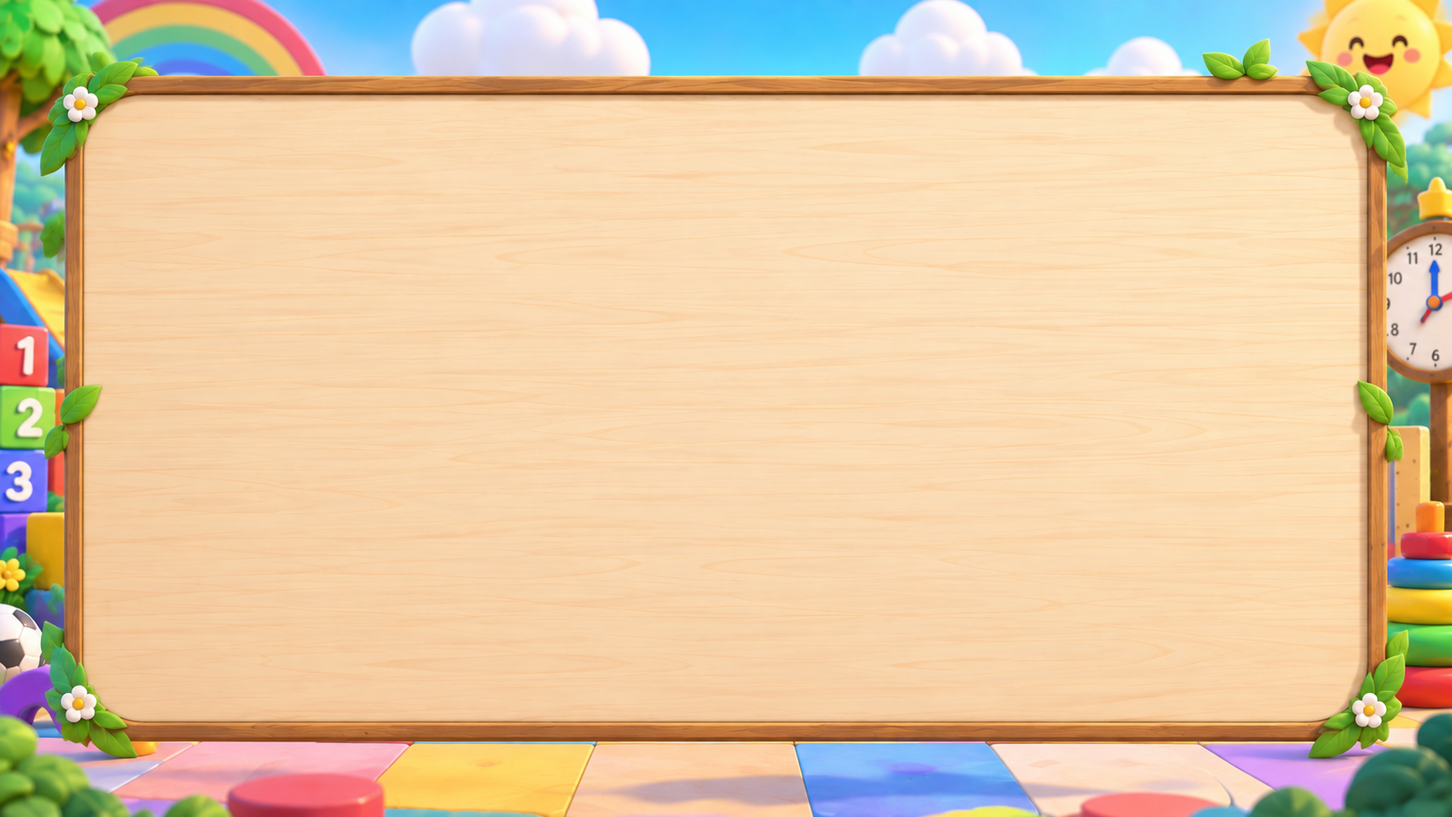
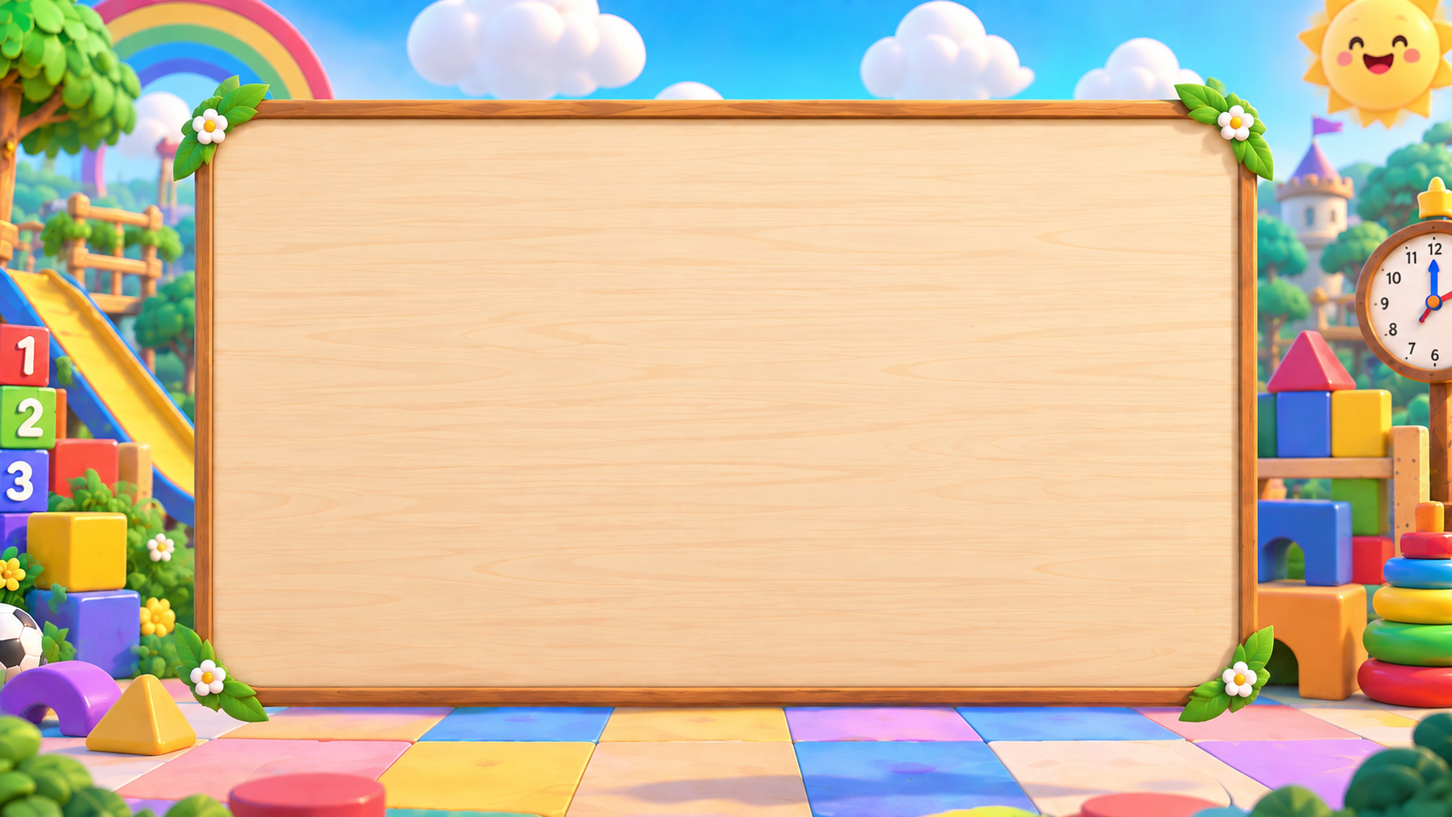
Polish Grade 1 math adventure home

diff --git a/kelas-1-semester-1/matematika/style.css b/kelas-1-semester-1/matematika/style.css
@@ -1,20 +1,39 @@
+@import url('https://fonts.googleapis.com/css2?family=Baloo+2:wght@500;600;700&family=Nunito:wght@500;700;800&display=swap');
+
+/* Activity card reference treatment */
+.grade1-math-activity-card { max-width: 720px !important; padding: 20px 26px 28px !important; border: 3px solid #eadfce !important; border-radius: 28px !important; background: #fffdf9 !important; box-shadow: 0 14px 0 #d6c2a8, 0 20px 36px #5d47352b !important; }
+.grade1-math-activity-card .grade1-math-mascot { position: relative; z-index: 1; justify-content: center; margin: -8px auto 6px !important; }.grade1-math-activity-card .grade1-math-bunny { width: 76px; height: 76px; font-size: 3rem; }.grade1-math-activity-card .grade1-math-speech { padding: 12px 20px; border: 3px solid #eadfce; border-radius: 20px; color: #243447; background: #fffdf9; font-size: 1rem; }
+.grade1-math-activity-card .activity-label { margin: 2px 0 10px; color: var(--coral); font-size: .78rem; font-weight: 900; text-align: center; }.activity-visual { padding: 10px 16px; border: 2px dashed #f0d49e; border-radius: 18px; background: #fff8e9; }.activity-visual .math-objects, .activity-visual .shape-row { margin: 0; min-height: 100px; border-radius: 12px; background: transparent; }.activity-visual .math-objects { font-size: clamp(2rem, 5vw, 3.2rem); }.activity-visual .shape-row { font-size: 4rem; }
+.grade1-math-activity-card .activity-prompt { margin: 14px 0 16px; padding: 9px 14px; border-radius: 16px; color: #243447; background: #edf6e1; font-family: 'Nunito', sans-serif; font-size: clamp(1.8rem, 4vw, 2.5rem) !important; line-height: 1.1; text-align: center; }.grade1-math-activity-card .activity-answers { gap: 12px; }.grade1-math-activity-card .answer-button { min-height: 62px; border: 2px solid #eadfce; border-radius: 16px; color: #243447; background: #f7f3ed; box-shadow: 0 4px 0 #ddd0c0; font-size: 1.25rem; }.grade1-math-activity-card .answer-button:hover { transform: translateY(-2px); background: #fff0df; box-shadow: 0 6px 0 #ddd0c0; }.grade1-math-activity-card .answer-button:active { transform: translateY(2px); box-shadow: 0 2px 0 #ddd0c0; }
+.grade1-math-activity-card .activity-listen { margin-top: 4px; padding: 10px 18px; color: #243447; background: transparent; font-size: .95rem; }.grade1-math-activity-card .activity-listen:hover { color: var(--coral); }.grade1-math-activity-card .level-progress-dots { margin-top: 12px; }
+@media (max-width: 680px) { .grade1-math-activity-card { padding: 16px 14px 24px !important; }.grade1-math-activity-card .grade1-math-bunny { width: 60px; height: 60px; font-size: 2.4rem; }.grade1-math-activity-card .grade1-math-speech { padding: 9px 13px; font-size: .88rem; }.activity-visual .math-objects, .activity-visual .shape-row { min-height: 76px; }.grade1-math-activity-card .activity-prompt { font-size: clamp(1.45rem, 6vw, 2rem) !important; }.grade1-math-activity-card .answer-button { min-height: 56px; } }
+/* Mission card design only */
+.grade1-math-subject { display: grid !important; grid-template-columns: 58px minmax(0, 1fr) auto !important; align-items: center !important; min-height: 156px !important; padding: 22px 24px !important; border: 3px solid #b9dfc1 !important; border-radius: 24px !important; background: #f5fff4 !important; box-shadow: 0 6px 0 #a7cdb0, 0 12px 22px #5d47351a !important; cursor: default !important; text-decoration: none !important; transition: transform .16s ease, box-shadow .16s ease !important; }
+.grade1-math-subject:hover { transform: translateY(-3px) !important; box-shadow: 0 9px 0 #a7cdb0, 0 16px 24px #5d47351a !important; }.grade1-math-subject:active { transform: translateY(2px) !important; box-shadow: 0 3px 0 #a7cdb0 !important; }
+.grade1-math-subject .subject-number { width: 52px !important; height: 52px !important; border-radius: 16px !important; color: white !important; background: var(--coral) !important; font-size: 1.35rem !important; }
+.grade1-math-subject .mission-copy { display: block !important; min-width: 0 !important; padding-right: 18px !important; }.grade1-math-subject .mission-copy b { display: block !important; color: var(--ink) !important; font: 800 1.18rem/1.2 'Nunito', sans-serif !important; }.grade1-math-subject .mission-copy small { display: block !important; margin-top: 7px !important; color: #4f463f !important; font-size: .84rem !important; line-height: 1.35 !important; }
+.mission-mini-visual { display: flex; align-items: center; gap: 7px; min-height: 28px; margin: 9px 0 3px; color: #4c8f69; font-size: 1.18rem; font-weight: 800; letter-spacing: .04em; }.mission-mini-visual b { color: var(--coral); font-size: .95rem; }.mission-number-run span { color: var(--sky); font-size: .92rem; }.mission-number-run span:nth-child(2n) { color: var(--coral); }
+.grade1-math-subject .mission-reward { position: static !important; display: block !important; margin-top: 8px !important; color: #c39120 !important; font-size: .98rem !important; }.grade1-math-subject .subject-play { display: inline-flex !important; align-items: center !important; justify-content: center !important; min-width: 108px !important; min-height: 48px !important; padding: 10px 12px !important; border-radius: 14px !important; color: white !important; background: var(--coral) !important; box-shadow: 0 4px 0 #c95b4a !important; font-size: .72rem !important; font-weight: 900 !important; text-align: center !important; text-decoration: none !important; }.grade1-math-subject .subject-play:hover { transform: translateY(2px) !important; box-shadow: 0 2px 0 #c95b4a !important; }.grade1-math-subject .subject-play:focus-visible { outline: 4px solid #f6bd45; outline-offset: 3px; }
+.grade1-math-subject.is-done { border-color: #8ac79a !important; background: #f1fff0 !important; }.grade1-math-subject.is-done .subject-number { background: var(--leaf) !important; }
+@media (max-width: 680px) { .grade1-math-subject { grid-template-columns: 48px minmax(0, 1fr) !important; min-height: 170px !important; padding: 18px !important; }.grade1-math-subject .subject-number { width: 46px !important; height: 46px !important; }.grade1-math-subject .subject-play { grid-column: 2; justify-self: start; min-height: 46px !important; }.grade1-math-subject .mission-copy { padding-right: 0 !important; }.mission-mini-visual { font-size: 1rem; } }
 /* Chapter pages use the title board as the top identity */
 body.grade1-math:has(#chapter-app) .grade1-math-header { display: none !important; }
 body.grade1-math:has(#chapter-app) .chapter-title-board { margin-top: -22px !important; }
 body.grade1-math:has(#chapter-app) #chapter-app { position: relative; top: -120px; }
-body.grade1-math:has(.grade1-math-activity-card) #chapter-app { top: 0 !important; }
-.chapter-progress-floating { position: fixed; top: 50px; right: 40px; z-index: 20; display: grid; gap: 4px; min-width: 170px; padding: 13px 15px; border: 2px solid #f0ce76; border-radius: 16px; color: #7f5d18; background: #fff5cf; box-shadow: 0 4px 0 #e0b85e; }
-.chapter-progress-floating span { color: #9a741e; font-size: .68rem; font-weight: 800; letter-spacing: .12em; }.chapter-progress-floating strong { display: flex; gap: 3px; font-size: 1.2rem; }.chapter-progress-floating small { color: #766b61; font-size: .78rem; font-weight: 800; }
-@media (max-width: 680px) { .chapter-progress-floating { top: 50px; right: 12px; min-width: 145px; padding: 10px 12px; }.chapter-progress-floating strong { font-size: 1rem; }.chapter-progress-floating small { font-size: .7rem; } }
+body.grade1-math:has(.grade1-math-activity-card) #chapter-app { top: 150px !important; }
+.chapter-progress-floating { position: fixed; top: 50px; right: 40px; z-index: 20; display: flex; align-items: center; justify-content: center; min-width: 330px; min-height: 123px; padding: 24px 40px; color: #3d2a20; text-align: center; background: url('images/text-board.png') center / 100% 100% no-repeat; }
+.chapter-progress-floating strong { font-size: 1.25rem; font-weight: 900; line-height: 1; text-shadow: 0 1px 0 #fff2c7; }
+.chapter-progress-floating span { color: #5b321d; font-size: .72rem; font-weight: 900; letter-spacing: .12em; text-shadow: 0 1px 0 #ffe9b5; }.chapter-progress-floating strong { display: flex; gap: 3px; color: #6f3f19; font-size: 1.35rem; line-height: 1; text-shadow: 0 1px 0 #fff2c7; }.chapter-progress-floating small { color: #3d2a20; font-size: .82rem; font-weight: 900; text-shadow: 0 1px 0 #fff2c7; }
+@media (max-width: 680px) { .chapter-progress-floating { top: 50px; right: 12px; min-width: min(270px, calc(100vw - 24px)); min-height: 102px; padding: 24px 30px; }.chapter-progress-floating strong { font-size: 1rem; } }
 .chapter-title-board .grade1-math-kicker { color: #8f4d24; font-size: .95rem; font-weight: 900; letter-spacing: .18em; }
-.chapter-title-board h1 { margin-top: 16px !important; font-size: clamp(1.55rem, 2.8vw, 2.25rem) !important; }
+.chapter-title-board h1 { margin-top: 16px !important; font-size: clamp(1.16rem, 2.1vw, 1.69rem) !important; }
 .chapter-title-board p { margin-top: 64px !important; color: #3e3028; font-weight: 800; text-shadow: 0 1px 0 #fff4d8; }
 .chapter-title-board > .grade1-math-kicker, .chapter-title-board > h1, .chapter-title-board > p { position: relative; top: 35px; }
 /* Chapter title sits outside the content board */
 .chapter-title-board { max-width: 760px; min-height: 178px; margin: 50px auto 18px; padding: 42px clamp(42px, 8vw, 100px) 32px; text-align: center; background: url('images/papan judul.png') center / 100% 100% no-repeat; }
 .chapter-title-board h1 { margin: 4px 0 8px; font-family: 'Nunito', sans-serif; font-size: clamp(1.8rem, 3.4vw, 2.8rem); line-height: 1.05; letter-spacing: 0; }
 .chapter-title-board p { max-width: 620px; margin: 0 auto; color: #766b61; font-size: .98rem; line-height: 1.4; }
-@media (max-width: 680px) { .chapter-title-board { min-height: 220px; margin: 50px 0 14px; padding: 32px 42px 24px; }.chapter-title-board .grade1-math-kicker { font-size: .8rem; }.chapter-title-board h1 { margin-top: 12px !important; font-size: clamp(1.35rem, 6vw, 2rem) !important; }.chapter-title-board p { margin-top: 52px !important; font-size: .88rem; } }
+@media (max-width: 680px) { .chapter-title-board { min-height: 220px; margin: 50px 0 14px; padding: 32px 42px 24px; }.chapter-title-board .grade1-math-kicker { font-size: .8rem; }.chapter-title-board h1 { margin-top: 12px !important; font-size: clamp(1.01rem, 4.5vw, 1.5rem) !important; }.chapter-title-board p { margin-top: 52px !important; font-size: .88rem; } }
 /* Centered chapter title refinement */
 .level-heading { display: block !important; padding: 80px 0 18px !important; text-align: center !important; }
 .level-heading-copy { max-width: 760px !important; margin: 0 auto !important; }
@@ -47,7 +66,7 @@ body.grade1-math:has(.grade1-math-activity-card) #chapter-app { top: 0 !importan
 .grade1-math-hero p { max-width: 480px; margin: 0 0 22px; color: #4f463f; font-size: 1.08rem; font-weight: 800; }
 .primary-cta { display: inline-flex; align-items: center; min-height: 56px; padding: 0 24px; border: 3px solid #d96a58; border-radius: 18px; color: white; background: var(--coral); box-shadow: 0 5px 0 #c95b4a; font-size: 1.05rem; font-weight: 800; text-decoration: none; transition: transform .16s ease, box-shadow .16s ease; }
 .primary-cta:hover, .primary-cta:focus-visible { transform: translateY(2px); box-shadow: 0 3px 0 #c95b4a; }
-.adventure-board { max-width: 100%; margin: 8px 0 28px; padding: 22px clamp(16px, 4vw, 34px) 26px; border: 4px solid #b77b4d; border-radius: 26px; background: #f7d69f; box-shadow: 0 8px 0 #8e5c3d, 0 18px 32px #694a3426; }
+.adventure-board { max-width: 100%; aspect-ratio: 2172 / 620; margin: 8px 0 28px; padding: 16px clamp(16px, 4vw, 34px) 18px; border: 0; border-radius: 26px; background: url('images/board-peta.png') center / 100% 100% no-repeat; box-shadow: none; }
 .board-heading { display: flex; justify-content: space-between; gap: 12px; margin-bottom: 20px; color: #7b4a2f; font-size: .78rem; font-weight: 800; letter-spacing: .12em; }
 .board-heading strong { color: #6a573f; letter-spacing: 0; }
 .adventure-path { display: flex; align-items: center; justify-content: space-between; gap: 8px; }
@@ -58,10 +77,40 @@ body.grade1-math:has(.grade1-math-activity-card) #chapter-app { top: 0 !importan
 .grade1-math-chapters { gap: 14px; }.grade1-math-chapter { min-height: 132px; background: #ffffffe8; }.grade1-math-chapter strong { font-family: 'Nunito', sans-serif; font-size: 1.18rem; }.grade1-math-chapter small { display: block; margin-top: 8px; font-size: .86rem; font-weight: 800; }.grade1-math-chapter .chapter-arrow { min-width: 78px; padding: 10px 8px; border-radius: 12px; color: white; background: var(--coral); box-shadow: 0 3px 0 #c95b4a; font-size: 0; text-align: center; }.grade1-math-chapter .chapter-arrow::after { content: 'MAIN ▶'; font-size: .72rem; letter-spacing: .04em; }.grade1-math-chapter:hover .chapter-arrow { transform: translateY(2px); box-shadow: 0 1px 0 #c95b4a; }.grade1-math-chapter:focus-visible, .grade1-math-subject:focus-visible, .grade1-math-back:focus-visible, .next-button:focus-visible, .listen-button:focus-visible, .answer-button:focus-visible { outline: 4px solid #f6bd45; outline-offset: 3px; }
 .level-heading { display: grid; grid-template-columns: 1fr auto; align-items: end; gap: 18px; padding: 30px 0 22px; }.level-heading .grade1-math-back { grid-column: 1 / -1; margin-bottom: 0; }.level-heading h1 { margin-top: 5px; }.level-heading p { max-width: 600px; margin: 0; color: #766b61; font-size: 1.05rem; }.level-progress, .activity-stars { padding: 10px 14px; border-radius: 14px; color: #7f5d18; background: #fff2c9; font-weight: 800; white-space: nowrap; }.grade1-math-subject.is-done { border-color: #91c99a; background: #f1fff0; }.grade1-math-subject.is-done .subject-play { color: var(--leaf); }
 .grade1-math-activity-head { padding-top: 22px; }.grade1-math-activity-head .activity-stars { margin-left: auto; padding: 7px 10px; font-size: .82rem; letter-spacing: 0; }.grade1-math-activity-card { border-width: 3px; }.level-progress-dots { display: flex; justify-content: center; gap: 8px; margin: 4px 0 2px; }.progress-dot { width: 12px; height: 12px; border: 2px solid #d7c9b6; border-radius: 50%; background: transparent; }.progress-dot.is-active { border-color: var(--coral); background: var(--coral); }
-@media (max-width: 760px) { .grade1-math-hero { padding-top: 30px; }.adventure-path { overflow-x: auto; justify-content: flex-start; padding: 4px 2px 10px; }.adventure-node { flex: 0 0 112px; }.path-link { flex: 0 0 auto; }.level-heading { align-items: start; }.level-progress { grid-column: 2; grid-row: 2; } }
+@media (max-width: 760px) { .grade1-math-hero { padding-top: 30px; }.adventure-board { aspect-ratio: auto; background-size: contain; }.adventure-path { overflow-x: auto; justify-content: flex-start; padding: 4px 2px 10px; }.adventure-node { flex: 0 0 112px; }.path-link { flex: 0 0 auto; }.level-heading { align-items: start; }.level-progress { grid-column: 2; grid-row: 2; } }
 @media (max-width: 680px) { .grade1-math-hero { padding: 28px 12px 24px; background: linear-gradient(90deg, #fffaf2e8, #fffaf298 86%, transparent); }.grade1-math-hero h1 { font-size: clamp(2.45rem, 12vw, 4rem); }.board-heading { align-items: flex-start; flex-direction: column; }.grade1-math-activity-head .activity-stars { margin-left: 0; }.level-heading { grid-template-columns: 1fr; }.level-progress { grid-column: auto; grid-row: auto; justify-self: start; }.grade1-math-chapter { min-height: 116px; padding: 14px; }.grade1-math-chapter .chapter-arrow { min-width: 70px; }.answer-grid { grid-template-columns: repeat(3, minmax(0, 1fr)); }.grade1-math-footer { margin-top: 32px; } }
 @media (orientation: landscape) and (max-height: 560px) { .grade1-math-shell { padding-top: 10px; }.grade1-math-header { padding-bottom: 8px; }.grade1-math-hero { padding: 20px 0 16px; }.grade1-math-hero h1 { font-size: clamp(2.4rem, 8vh, 4rem); }.adventure-board { margin-bottom: 16px; padding: 14px 20px 18px; }.grade1-math-activity-card { padding-top: 12px; padding-bottom: 18px; }.grade1-math-activity-card .grade1-math-mascot { margin-bottom: 4px; }.grade1-math-activity-card .grade1-math-bunny { width: 48px; height: 48px; font-size: 1.9rem; }.math-objects { min-height: 58px; margin: 8px 0; }.grade1-math-activity-card h1 { margin: 6px 0 10px; } }
-@import url('https://fonts.googleapis.com/css2?family=Baloo+2:wght@500;600;700&family=Nunito:wght@500;700;800&display=swap');
+/* Home refinement: keep the map playful while making the next action obvious. */
+body.grade1-math:has(#math-map) .grade1-math-hero { max-width: 820px; padding: 24px 22px 20px; }
+body.grade1-math:has(#math-map) .grade1-math-header { gap: 8px; padding-bottom: 10px; }
+body.grade1-math:has(#math-map) .grade1-math-brand,
+body.grade1-math:has(#math-map) .grade1-math-semester { display: inline-flex; align-items: center; min-height: 36px; border-radius: 11px; padding: 6px 10px; }
+body.grade1-math:has(#math-map) .grade1-math-brand { color: #fff; background: #2f7188; letter-spacing: .02em; }
+body.grade1-math:has(#math-map) .grade1-math-semester { margin-left: -2px; color: #55412b; background: #ffe39a; font-size: .7rem; letter-spacing: .06em; }
+body.grade1-math:has(#math-map) .grade1-math-semester::before { content: '|'; margin-right: 8px; color: #d96a58; font-size: .95rem; font-weight: 900; }
+body.grade1-math:has(#math-map) .grade1-math-hero h1 { margin: 5px 0 8px; font-size: clamp(1.7rem, 3.6vw, 3rem); white-space: nowrap; }
+body.grade1-math:has(#math-map) .grade1-math-hero .grade1-math-kicker { display: none; }
+body.grade1-math:has(#math-map) .grade1-math-hero h1 br { display: none; }
+body.grade1-math:has(#math-map) .grade1-math-hero p { margin-bottom: 16px; }
+body.grade1-math:has(#math-map) .primary-cta { min-height: 52px; padding-inline: 22px; box-shadow: 0 4px 0 #c95b4a; }
+body.grade1-math:has(#math-map) .grade1-math-shell { overflow: visible !important; }
+body.grade1-math:has(#math-map) .adventure-board { width: calc(100% + clamp(80px, 12vw, 220px)); max-width: none; margin: 4px 0 18px calc(clamp(80px, 12vw, 220px) / -2); padding-top: 18px; background-size: 100% 100%; }
+body.grade1-math:has(#math-map) .adventure-board .adventure-path { padding-inline: clamp(42px, 6vw, 88px); }
+body.grade1-math:has(#math-map) .adventure-board .adventure-node,
+body.grade1-math:has(#math-map) .adventure-board .path-link { top: 80px; position: relative; }
+body.grade1-math:has(#math-map) .adventure-node.is-current { border-width: 4px; box-shadow: 0 5px 0 #d1a96e, 0 0 0 6px #ff806d38, 0 10px 20px #5d47353b; animation: home-current-pulse 2.2s ease-in-out infinite; }
+body.grade1-math:has(#math-map) .grade1-math-chapter.is-current { border-color: var(--coral) !important; background: #fff5e9 !important; box-shadow: 0 8px 0 #d96a58, 0 0 0 5px #ff806d2e, 0 14px 26px #5d47352b !important; transform: translateY(-3px); }
+body.grade1-math:has(#math-map) .grade1-math-chapter.is-current .chapter-icon { box-shadow: 0 0 0 4px #ff806d38; }
+body.grade1-math:has(#math-map) .level-status { display: block; margin: 4px 0 1px; color: #b75a42; font-size: .68rem; font-style: normal; font-weight: 900; letter-spacing: .05em; }
+body.grade1-math:has(#math-map) .grade1-math-chapter.is-done .level-status { color: #4c8f69; }
+body.grade1-math:has(#math-map) .grade1-math-chapter.is-locked .level-status { color: #756b62; }
+.grade1-math-guide { display: flex; align-items: center; gap: 12px; max-width: 680px; margin: 0 auto 18px; padding: 8px 14px; }
+.grade1-math-guide .grade1-math-bunny { flex: 0 0 auto; width: 54px; height: 54px; border-radius: 18px; font-size: 2.1rem; }
+.grade1-math-guide .grade1-math-speech { padding: 10px 15px; border-width: 2px; font-size: .92rem; }
+@keyframes home-current-pulse { 0%, 100% { box-shadow: 0 5px 0 #d1a96e, 0 0 0 5px #ff806d30, 0 8px 16px #5d473524; } 50% { box-shadow: 0 5px 0 #d1a96e, 0 0 0 9px #ff806d12, 0 12px 22px #5d473536; } }
+@media (max-width: 680px) { body.grade1-math:has(#math-map) .grade1-math-hero { padding: 20px 12px 18px; } body.grade1-math:has(#math-map) .grade1-math-header { gap: 4px; } body.grade1-math:has(#math-map) .grade1-math-semester { display: inline-flex; flex: 1; min-width: 0; padding-inline: 7px; font-size: .57rem; letter-spacing: .02em; white-space: nowrap; } body.grade1-math:has(#math-map) .grade1-math-semester::before { margin-right: 5px; } body.grade1-math:has(#math-map) .grade1-math-score { min-width: 58px; padding-inline: 7px; } body.grade1-math:has(#math-map) .grade1-math-hero h1 { font-size: clamp(1.45rem, 8vw, 2.35rem); } body.grade1-math:has(#math-map) .adventure-board { width: 100%; max-width: 100%; margin-left: 0; background-size: contain; } .grade1-math-guide { margin-bottom: 12px; padding-inline: 2px; } .grade1-math-guide .grade1-math-speech { flex: 1; } }
+@media (orientation: landscape) and (max-height: 560px) { body.grade1-math:has(#math-map) .grade1-math-hero { padding-block: 14px; } body.grade1-math:has(#math-map) .grade1-math-hero h1 { font-size: clamp(2rem, 7vh, 3.3rem); } }
+@media (max-width: 680px) { body.grade1-math:has(#math-map) .adventure-board .adventure-path { padding-inline: 8px; } }
 
 :root { --ink: #243447; --paper: #fffaf2; --coral: #ff806d; --sun: #f6bd45; --leaf: #69b889; --sky: #5db6d5; --violet: #9a86d8; --line: #eadfce; }
 * { box-sizing: border-box; }

diff --git a/kelas-1-semester-1/matematika/chapter-engine.js b/kelas-1-semester-1/matematika/chapter-engine.js
@@ -11,6 +11,14 @@
   const speak = (text) => window.Grade1MathSound.speak(text);
   const updateStars = () => { starCount.textContent = Number.isFinite(stars) ? stars : 0; };
   const mascot = (message, mood = 'happy') => `<div class="grade1-math-mascot"><div class="grade1-math-bunny mood-${mood}" aria-label="Kiko si kelinci">🐰</div><div class="grade1-math-speech">${message}</div></div>`;
+  const missionVisual = (activity, index) => {
+    if (activity.type === 'count') return `<div class="mission-mini-visual">${activity.items.repeat(Math.min(activity.answer, 5))} <b>→ ${activity.answer}</b></div>`;
+    if (activity.type === 'choose') return '<div class="mission-mini-visual mission-number-run"><span>6</span><span>7</span><span>8</span><span>9</span><span>10</span></div>';
+    if (activity.type === 'sum') return `<div class="mission-mini-visual">${'●'.repeat(activity.left)} <b>+</b> ${'●'.repeat(activity.right)} <b>→ ${activity.answer}</b></div>`;
+    if (activity.type === 'difference') return `<div class="mission-mini-visual">${'●'.repeat(activity.left)} <b>−</b> ${activity.right} <b>→ ${activity.answer}</b></div>`;
+    if (activity.type === 'shape') return '<div class="mission-mini-visual">○ △ □</div>';
+    return `<div class="mission-mini-visual">4 <b>•</b> 6 <b>→</b> ${activity.answer}</div>`;
+  };
   const renderChapter = () => {
     const completed = chapter.subs.filter((_, index) => localStorage.getItem(`grade1MathDone:${chapter.id}:${index}`) === 'true').length;
     const allDone = completed === chapter.subs.length;
@@ -20,8 +28,8 @@
     document.querySelector('.chapter-title-board')?.remove();
     document.querySelector('.grade1-math-header').insertAdjacentHTML('afterend', `<section class="chapter-title-board"><div class="grade1-math-kicker">LEVEL 0${chapter.number}</div><h1>${chapter.title}</h1><p>${chapter.goal}</p></section>`);
     document.querySelector('.chapter-progress-floating')?.remove();
-    document.body.insertAdjacentHTML('afterbegin', `<section class="chapter-progress-floating" aria-label="${completed} dari ${chapter.subs.length} misi selesai"><span>PROGRES BAB</span><strong>${progressStars}</strong><small>${completed} / ${chapter.subs.length} Misi selesai</small></section>`);
-    app.innerHTML = `<section class="level-heading"></section><section class="grade1-math-mission-zone" aria-label="Misi Level ${chapter.number}">${mascot('Pilih satu misi untuk mulai bermain!', 'thinking')}<div class="grade1-math-subjects">${chapter.subs.map((sub, index) => { const done = localStorage.getItem(`grade1MathDone:${chapter.id}:${index}`) === 'true'; return `<a class="grade1-math-subject ${done ? 'is-done' : ''}" href="?sub=${index + 1}"><span class="subject-number">0${index + 1}</span><span class="mission-copy"><b>${sub.title}</b><small>${sub.concept}</small><span class="mission-reward" aria-label="${done ? 'Misi selesai' : 'Misi belum selesai'}">${done ? '✓ ⭐' : '☆ ☆'}</span></span><span class="subject-play">${done ? 'MAIN LAGI ▶' : 'MAIN ▶'}</span></a>`; }).join('')}</div></section><section class="chapter-complete ${allDone ? 'is-visible' : ''}" aria-live="polite"><strong>🎉 BAB SELESAI!</strong><span>Semua misi sudah kamu mainkan.</span></section>`;
+    document.body.insertAdjacentHTML('afterbegin', `<section class="chapter-progress-floating" aria-label="BAB, ${completed} dari ${chapter.subs.length} selesai"><strong>BAB • ⭐ ${completed}/${chapter.subs.length}</strong></section>`);
+    app.innerHTML = `<section class="level-heading"></section><section class="grade1-math-mission-zone" aria-label="Misi Level ${chapter.number}">${mascot('Pilih satu misi untuk mulai bermain!', 'thinking')}<div class="grade1-math-subjects">${chapter.subs.map((sub, index) => { const done = localStorage.getItem(`grade1MathDone:${chapter.id}:${index}`) === 'true'; return `<article class="grade1-math-subject ${done ? 'is-done' : ''}"><span class="subject-number">0${index + 1}</span><span class="mission-copy"><b>${sub.title}</b>${missionVisual(sub.activity, index)}<small>${sub.concept}</small><span class="mission-reward" aria-label="${done ? 'Misi selesai' : 'Misi belum selesai'}">${done ? '✓ ⭐' : '☆ ☆'}</span></span><a class="subject-play mission-action" href="?sub=${index + 1}" aria-label="${done ? 'Main lagi' : 'Main'} ${sub.title}">${done ? 'MAIN LAGI ▶' : 'MAIN ▶'}</a></article>`; }).join('')}</div></section><section class="chapter-complete ${allDone ? 'is-visible' : ''}" aria-live="polite"><strong>🎉 BAB SELESAI!</strong><span>Semua misi sudah kamu mainkan.</span></section>`;
     const params = new URLSearchParams(location.search);
     if (params.has('sub')) { document.querySelector('.chapter-title-board')?.remove(); renderActivity(Number(params.get('sub')) - 1); }
   };
@@ -39,7 +47,7 @@
     answered = false;
     const activity = sub.activity;
     const progressDots = chapter.subs.map((_, subIndex) => `<span class="progress-dot ${subIndex <= index ? 'is-active' : ''}" aria-hidden="true"></span>`).join('');
-    app.innerHTML = `<section class="grade1-math-activity-head"><a class="grade1-math-back" href="index.html">← HOME</a><span>LEVEL 0${chapter.number} · MISI ${index + 1}</span><span class="activity-stars">⭐ ${stars}</span></section><section class="grade1-math-activity-card">${mascot('Ayo, kita coba!', 'curious')}<div class="activity-label">KENAL · COBA · MAIN</div>${visual(activity)}<h1 class="level-prompt">${activity.prompt}</h1><div class="answer-grid">${activity.choices.map((choice) => `<button class="answer-button" type="button" data-answer="${choice}">${choice}</button>`).join('')}</div><div class="feedback" id="feedback" role="status"></div><div class="level-progress-dots" aria-label="Misi ${index + 1} dari ${chapter.subs.length}">${progressDots}</div><button class="listen-button" id="listen" type="button">🔊 Dengarkan lagi</button></section>`;
+    app.innerHTML = `<section class="grade1-math-activity-head"><a class="grade1-math-back" href="index.html">← HOME</a><span>LEVEL 0${chapter.number} · MISI ${index + 1}</span><span class="activity-stars">⭐ ${stars}</span></section><section class="grade1-math-activity-card">${mascot('Ayo, kita coba!', 'curious')}<div class="activity-label">KENAL · COBA · MAIN</div><div class="activity-visual">${visual(activity)}</div><h1 class="level-prompt activity-prompt">${activity.prompt}</h1><div class="answer-grid activity-answers">${activity.choices.map((choice) => `<button class="answer-button" type="button" data-answer="${choice}">${choice}</button>`).join('')}</div><div class="feedback" id="feedback" role="status"></div><div class="level-progress-dots" aria-label="Misi ${index + 1} dari ${chapter.subs.length}">${progressDots}</div><button class="listen-button activity-listen" id="listen" type="button">🔊 Dengarkan lagi</button></section>`;
     document.querySelectorAll('.answer-button').forEach((button) => button.addEventListener('click', () => answer(button, activity)));
     document.querySelector('#listen').addEventListener('click', () => speak(activity.instruction || activity.prompt));
     speak(activity.instruction || activity.prompt);

diff --git a/kelas-1-semester-1/matematika/index-script.js b/kelas-1-semester-1/matematika/index-script.js
@@ -10,6 +10,7 @@
   const completedLevels = content.chapters.reduce((total, chapter) => total + chapter.subs.filter((_, index) => localStorage.getItem(`grade1MathDone:${chapter.id}:${index}`) === 'true').length, 0);
   const firstOpen = content.chapters.find((chapter) => chapter.subs.some((_, index) => localStorage.getItem(`grade1MathDone:${chapter.id}:${index}`) !== 'true')) || content.chapters[0];
   const firstOpenIndex = firstOpen.subs.findIndex((_, index) => localStorage.getItem(`grade1MathDone:${firstOpen.id}:${index}`) !== 'true');
+  const activeChapterIndex = completedLevels < totalLevels ? content.chapters.indexOf(firstOpen) : -1;
   const worlds = ['DUNIA ANGKA', 'DUNIA BERHITUNG', 'DUNIA BERHITUNG', 'DUNIA BENTUK', 'DUNIA ANGKA'];
   map.innerHTML = `<section class="grade1-math-hero"><div class="grade1-math-kicker">MATEMATIKA · KELAS 1 · SEMESTER 1</div><h1>Petualangan<br>Matematika</h1><p>Ikuti jejak angka, bentuk, dan hitungan bersama Kiko.</p><a class="primary-cta" href="bab${firstOpen.number}.html?sub=${firstOpenIndex + 1}">▶ ${completedLevels ? 'Lanjutkan petualangan' : 'Mulai bermain'}</a></section><section class="adventure-board" aria-label="Peta petualangan Matematika"><div class="board-heading"><span>PETA PETUALANGAN</span><strong>${completedLevels}/${totalLevels} level selesai</strong></div><div class="adventure-path">${content.chapters.map((chapter, index) => { const done = chapter.subs.filter((_, subIndex) => localStorage.getItem(`grade1MathDone:${chapter.id}:${subIndex}`) === 'true').length; const isCurrent = done < chapter.subs.length && content.chapters.slice(0, index).every((previous) => previous.subs.every((_, subIndex) => localStorage.getItem(`grade1MathDone:${previous.id}:${subIndex}`) === 'true')); return `<a class="adventure-node chapter-${chapter.color} ${isCurrent ? 'is-current' : ''}" href="bab${chapter.number}.html" aria-label="${worlds[index]}: ${chapter.title}"><span class="node-icon">${chapter.icon}</span><span class="node-number">0${chapter.number}</span><strong>${worlds[index]}</strong><small>${done}/${chapter.subs.length} selesai</small></a>${index < content.chapters.length - 1 ? '<span class="path-link" aria-hidden="true">→</span>' : ''}`; }).join('')}</div></section><section class="grade1-math-chapters" aria-label="Level Matematika">${content.chapters.map((chapter, index) => { const done = chapter.subs.filter((_, subIndex) => localStorage.getItem(`grade1MathDone:${chapter.id}:${subIndex}`) === 'true').length; return `<a class="grade1-math-chapter chapter-${chapter.color}" href="bab${chapter.number}.html"><span class="chapter-icon">${chapter.icon}</span><span><b>LEVEL 0${chapter.number}</b><strong>${chapter.title}</strong><small>${worlds[index]} · ⭐ ${done}/${chapter.subs.length}</small></span><span class="chapter-arrow">→</span></a>`; }).join('')}</section>`;
   const worldLabels = ['ANGKA', 'BERHITUNG', 'BERHITUNG', 'BENTUK', 'ANGKA'];
@@ -33,8 +34,14 @@
     const previousChapter = content.chapters[index - 1];
     const unlocked = index === 0 || previousChapter.subs.every((_, subIndex) => localStorage.getItem(`grade1MathDone:${previousChapter.id}:${subIndex}`) === 'true');
     const cardContainer = document.createElement('div');
-    cardContainer.className = `${card.className} ${unlocked ? 'is-unlocked' : 'is-locked'}`;
+    const completed = chapter.subs.every((_, subIndex) => localStorage.getItem(`grade1MathDone:${chapter.id}:${subIndex}`) === 'true');
+    const isCurrent = index === activeChapterIndex;
+    cardContainer.className = `${card.className} ${unlocked ? 'is-unlocked' : 'is-locked'} ${completed ? 'is-done' : ''} ${isCurrent ? 'is-current' : ''}`;
     cardContainer.innerHTML = card.innerHTML;
+    const status = document.createElement('em');
+    status.className = 'level-status';
+    status.textContent = completed ? '✓ SELESAI' : isCurrent ? '⭐ MAIN SEKARANG' : unlocked ? '▶ TERSEDIA' : '🔒 BELUM TERBUKA';
+    cardContainer.querySelector('b').insertAdjacentElement('afterend', status);
     const action = cardContainer.querySelector('.chapter-arrow');
     action.textContent = '';
     if (unlocked) {
@@ -54,5 +61,6 @@
 
   const primaryCta = map.querySelector('.primary-cta');
   primaryCta.textContent = completedLevels ? '▶ LANJUTKAN' : '▶ MULAI PETUALANGAN';
-  map.querySelector('.board-heading strong').textContent = `⭐ ${completedLevels} dari ${totalLevels} petualangan`;
+  primaryCta.setAttribute('aria-label', activeChapterIndex >= 0 ? `Lanjut ke Level 0${firstOpen.number}: ${firstOpen.title}` : 'Semua petualangan selesai');
+  map.querySelector('.board-heading strong').textContent = `⭐ ${completedLevels} / ${totalLevels} · PETUALANGAN SELESAI`;
 })();
